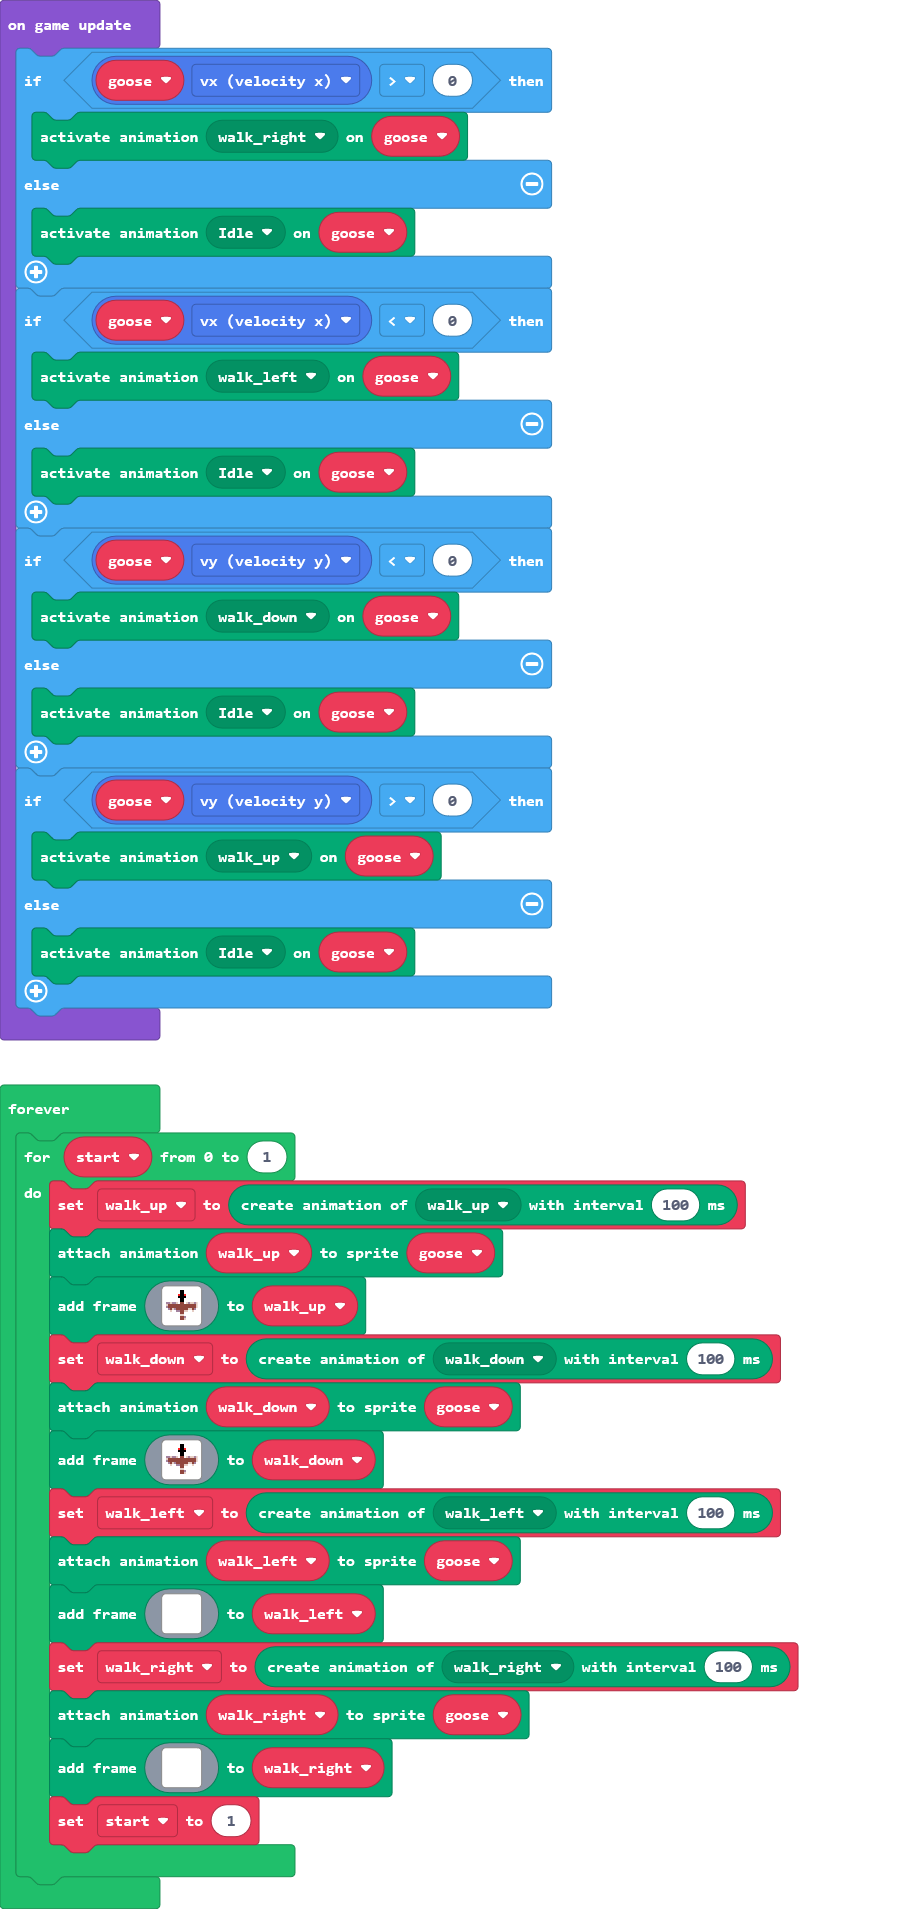
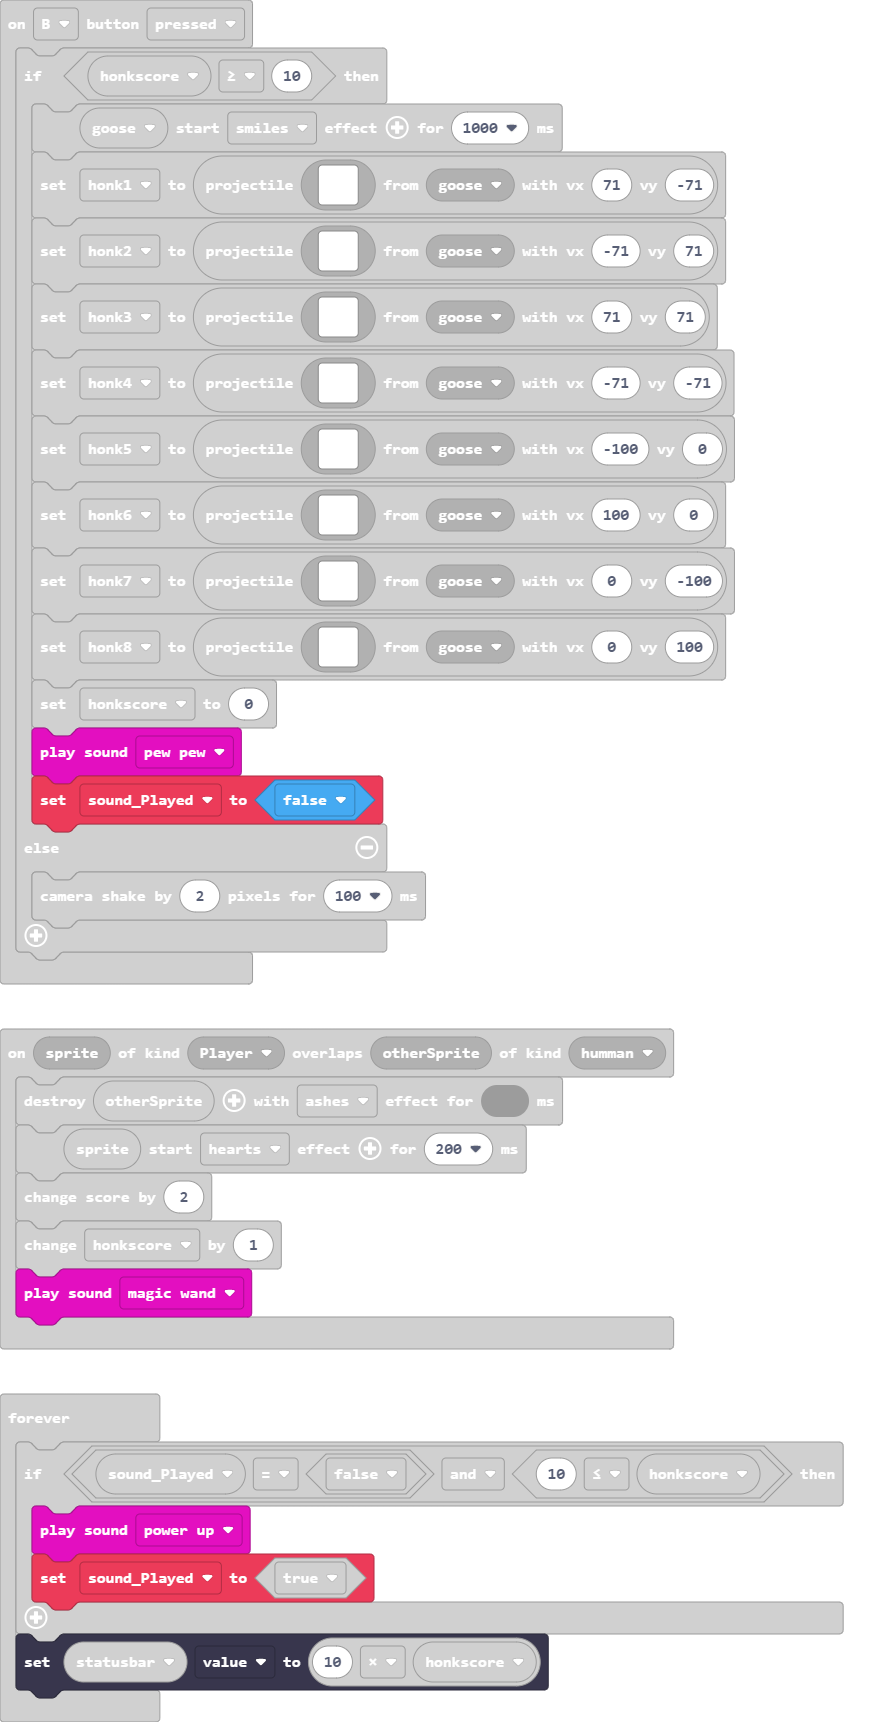
Update main.blocks, main.ts

diff --git a/main.ts b/main.ts
@@ -297,6 +297,8 @@ controller.B.onEvent(ControllerButtonEvent.Pressed, function () {
             . . . . . . 1 1 1 1 . . . . . . 
             `, goose, 0, 100)
         honkscore = 0
+        music.pewPew.play()
+        sound_Played = false
     } else {
         scene.cameraShake(2, 100)
     }
@@ -503,7 +505,7 @@ sprites.onOverlap(SpriteKind.Player, SpriteKind.humman, function (sprite, otherS
     sprite.startEffect(effects.hearts, 200)
     info.changeScoreBy(2)
     honkscore += 1
-    music.baDing.play()
+    music.magicWand.play()
 })
 sprites.onOverlap(SpriteKind.Player, SpriteKind.Food, function (sprite, otherSprite) {
     otherSprite.destroy(effects.ashes)
@@ -521,7 +523,6 @@ sprites.onOverlap(SpriteKind.Projectile, SpriteKind.humman, function (sprite, ot
 sprites.onOverlap(SpriteKind.Projectile, SpriteKind.Enemy, function (sprite, otherSprite) {
     otherSprite.destroy()
 })
-let sound_Played = false
 let roll = 0
 let walk_right: animation.Animation = null
 let walk_left: animation.Animation = null
@@ -530,6 +531,7 @@ let walk_up: animation.Animation = null
 let animal_count = 0
 let still: Sprite = null
 let pos_neg = 0
+let sound_Played = false
 let honk8: Sprite = null
 let honk7: Sprite = null
 let honk6: Sprite = null
@@ -697,7 +699,7 @@ forever(function () {
 forever(function () {
     if (sound_Played == false && 10 <= honkscore) {
         music.powerUp.play()
+        sound_Played = true
     }
     statusbar.value = 10 * honkscore
-    sound_Played = true
 })
